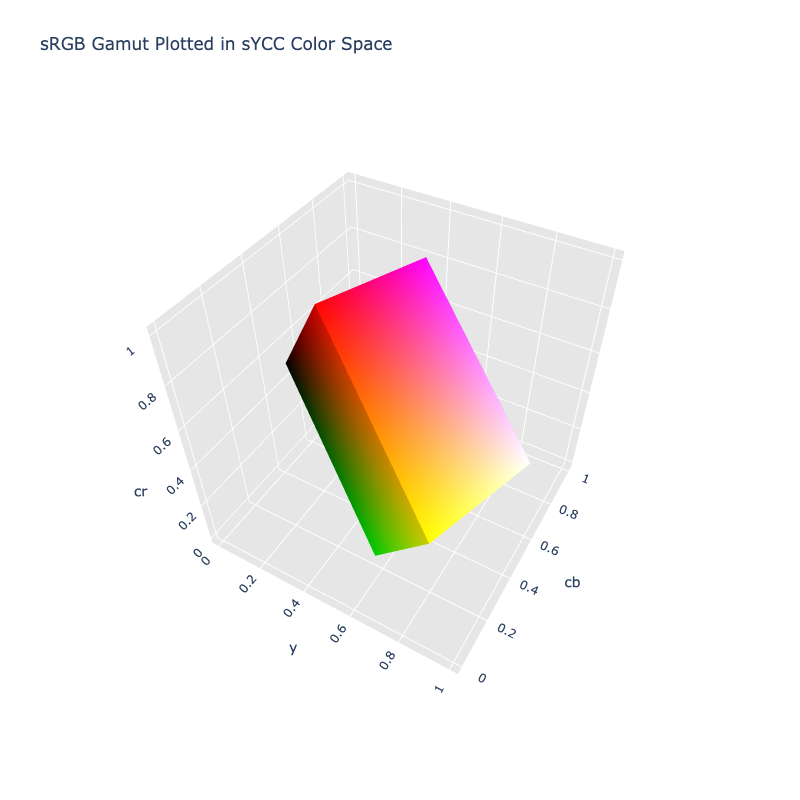
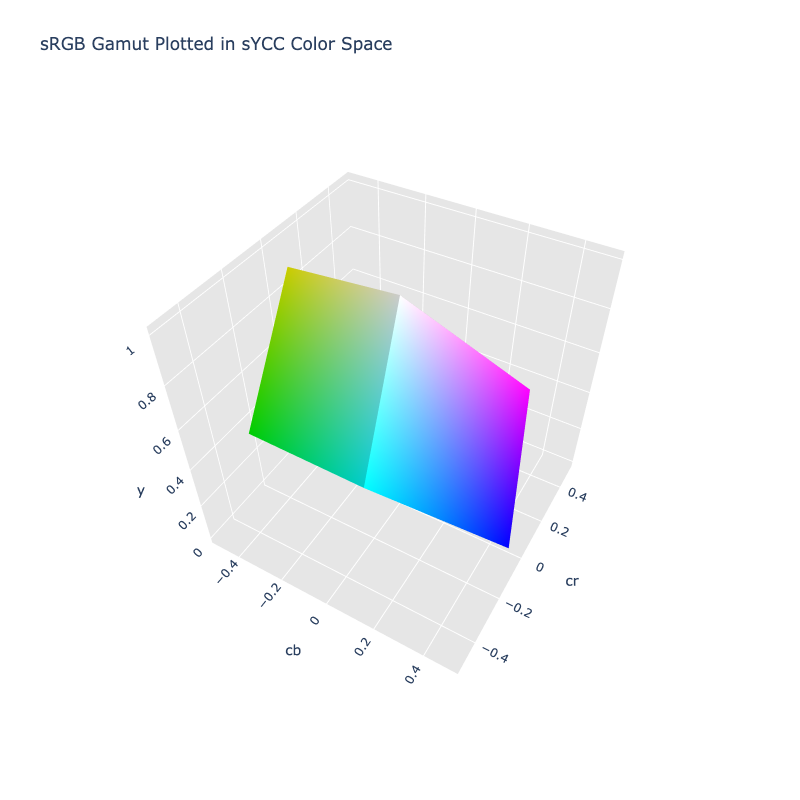
Provide YPbPr and YCbCr spaces and adjust logic, etc.

diff --git a/tools/gen_3d_models.py b/tools/gen_3d_models.py
@@ -95,6 +95,7 @@ models = {
     'srgb': {'title': 'sRGB Color Space', 'filename': 'srgb-3d.png'},
     'sucs': {'title': TEMPLATE.format('sUCS'), 'filename': 'sucs-3d.png', 'azim': 320},
     'sycc': {'title': TEMPLATE.format('sYCC'), 'filename': 'sycc-3d.png', 'gamut': 'srgb'},
+    'sycc-8bit': {'title': TEMPLATE.format('sYCC (8 Bit)'), 'filename': 'sycc-8bit-3d.png', 'gamut': 'srgb'},
     'ucs': {'title': TEMPLATE.format('UCS'), 'filename': 'ucs-3d.png', 'azim': 60, 'elev': 10},
     'xyb': {'title': TEMPLATE.format('XYB'), 'filename': 'xyb-3d.png', 'azim': 45},
     'xyy': {'title': TEMPLATE.format('xyY'), 'filename': 'xyy-3d.png'},
@@ -104,10 +105,22 @@ models = {
         'title': "Rec. 709 Gamut Plotted in Y'CbCr ITU-R BT.709 Color Space",
         'filename': 'ycbcr-709-3d.png', 'gamut': 'rec709'
     },
-    'ycbcr-2020': {
-        'title': "Rec. 2020 Gamut Plotted in Y'CbCr ITU-R BT.2020 Color Space",
-        'filename': 'ycbcr-2020-3d.png', 'gamut': 'rec2020'
+    'ypbpr2020': {
+        'title': "Rec. 2020 Gamut Plotted in YPbPr ITU-R BT.2020 Color Space",
+        'filename': 'ypbpr2020-3d.png', 'gamut': 'rec2020'
+    },
+    'ycbcr2020-10bit': {
+        'title': "Rec. 2020 Gamut Plotted in YCbCr (10 BIT) ITU-R BT.2020 Color Space",
+        'filename': 'ycbcr2020-10bit-3d.png', 'gamut': 'rec2020'
+    },
+    'ypbpr709': {
+        'title': "Rec. 709 Gamut Plotted in YPbPr ITU-R BT.709 Color Space",
+        'filename': 'ypbpr709-3d.png', 'gamut': 'rec709'
     }
+    'ycbcr709-8bit': {
+        'title': "Rec. 709 Gamut Plotted in YCbCr (8 BIT) ITU-R BT.709 Color Space",
+        'filename': 'ycbcr709-8bit-3d.png', 'gamut': 'rec709'
+    },
     'zcam-jmh': {'title': TEMPLATE.format('ZCAM JMh'), 'filename': 'zcam-jmh-3d.png', 'azim': 320}
 }
 

diff --git a/tests/test_roundtrip.py b/tests/test_roundtrip.py
@@ -19,7 +19,12 @@ class TestRoundTrip:
     class Color(Base):
         """Local color object."""
 
+    # These spaces don't have a gamut large enough to have good round trip throughout sRGB
     Color.deregister('space:hpluv')
+    # These spaces, since they are digital, don't have the resolution to have good round trip throughout sRGB
+    Color.deregister('space:sycc-8bit')
+    Color.deregister('space:ycbcr709-8bit')
+    Color.deregister('space:ycbcr2020-10bit')
 
     SPACES = dict.fromkeys(Color.CS_MAP, 10)
     # HCT will actually provide good conversion at about 11 decimal precision,
@@ -98,9 +103,13 @@ class TestAchromaticRoundTrip(TestRoundTrip):
     class Color(Base):
         """Local color object."""
 
-    Color.deregister('space:hpluv')
+    # These spaces don't have a gamut large enough to have good round trip throughout sRGB
     Color.deregister('space:ryb')
     Color.deregister('space:ryb-biased')
+    # These spaces, since they are digital, don't have the resolution to have good round trip throughout sRGB
+    Color.deregister('space:sycc-8bit')
+    Color.deregister('space:ycbcr709-8bit')
+    Color.deregister('space:ycbcr2020-10bit')
 
     SPACES = dict.fromkeys(Color.CS_MAP, 10)
 

diff --git a/coloraide/everything.py b/coloraide/everything.py
@@ -38,9 +38,9 @@ from .spaces.hct import HCT
 from .spaces.ucs import UCS
 from .spaces.rec709 import Rec709
 from .spaces.rec709_oetf import Rec709OETF
-from .spaces.ycbcr_709 import YCbCr709
-from .spaces.ycbcr_2020 import YCbCr2020
-from .spaces.sycc import sYCC
+from .spaces.ycbcr709 import YPbPr709, YCbCr709
+from .spaces.ycbcr2020 import YPbPr2020, YCbCr2020
+from .spaces.sycc import sYCC, sYCC8
 from .spaces.ryb import RYB, RYBBiased
 from .spaces.cubehelix import Cubehelix
 from .spaces.rec2020_oetf import Rec2020OETF
@@ -124,6 +124,9 @@ ColorAll.register(
         HelmlabMetric(),
         Helmgenlch(),
         sYCC(),
+        YPbPr709(),
+        YPbPr2020(),
+        sYCC8(),
         YCbCr709(),
         YCbCr2020(),
 